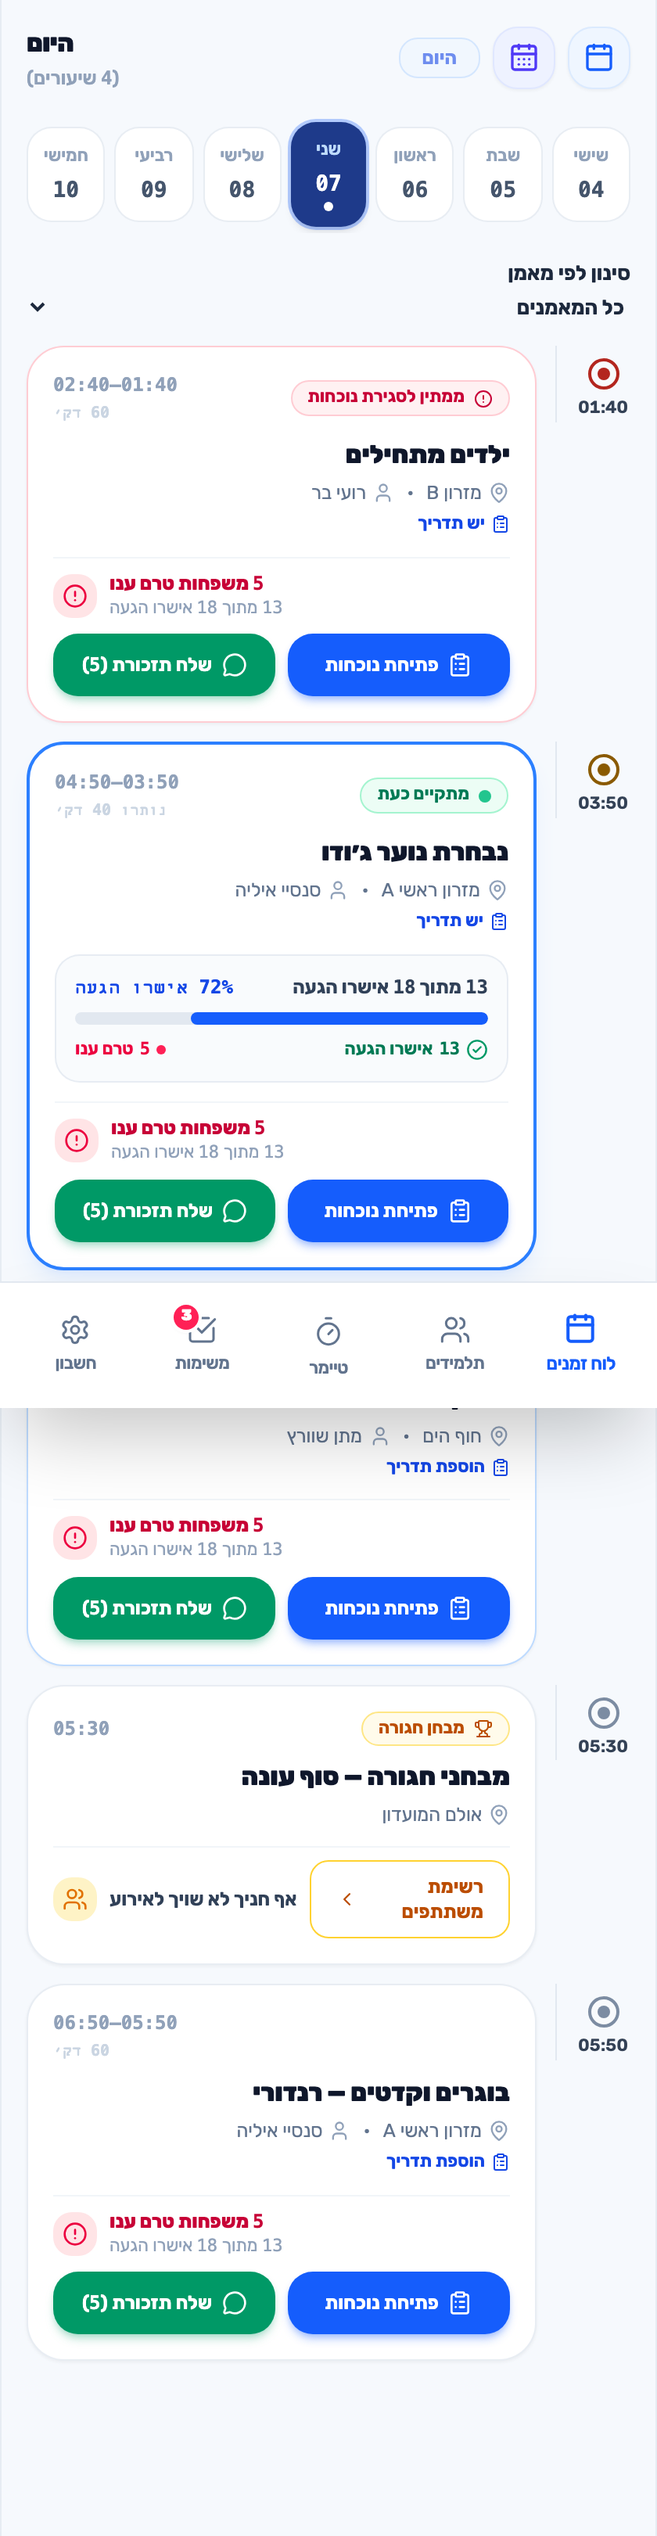
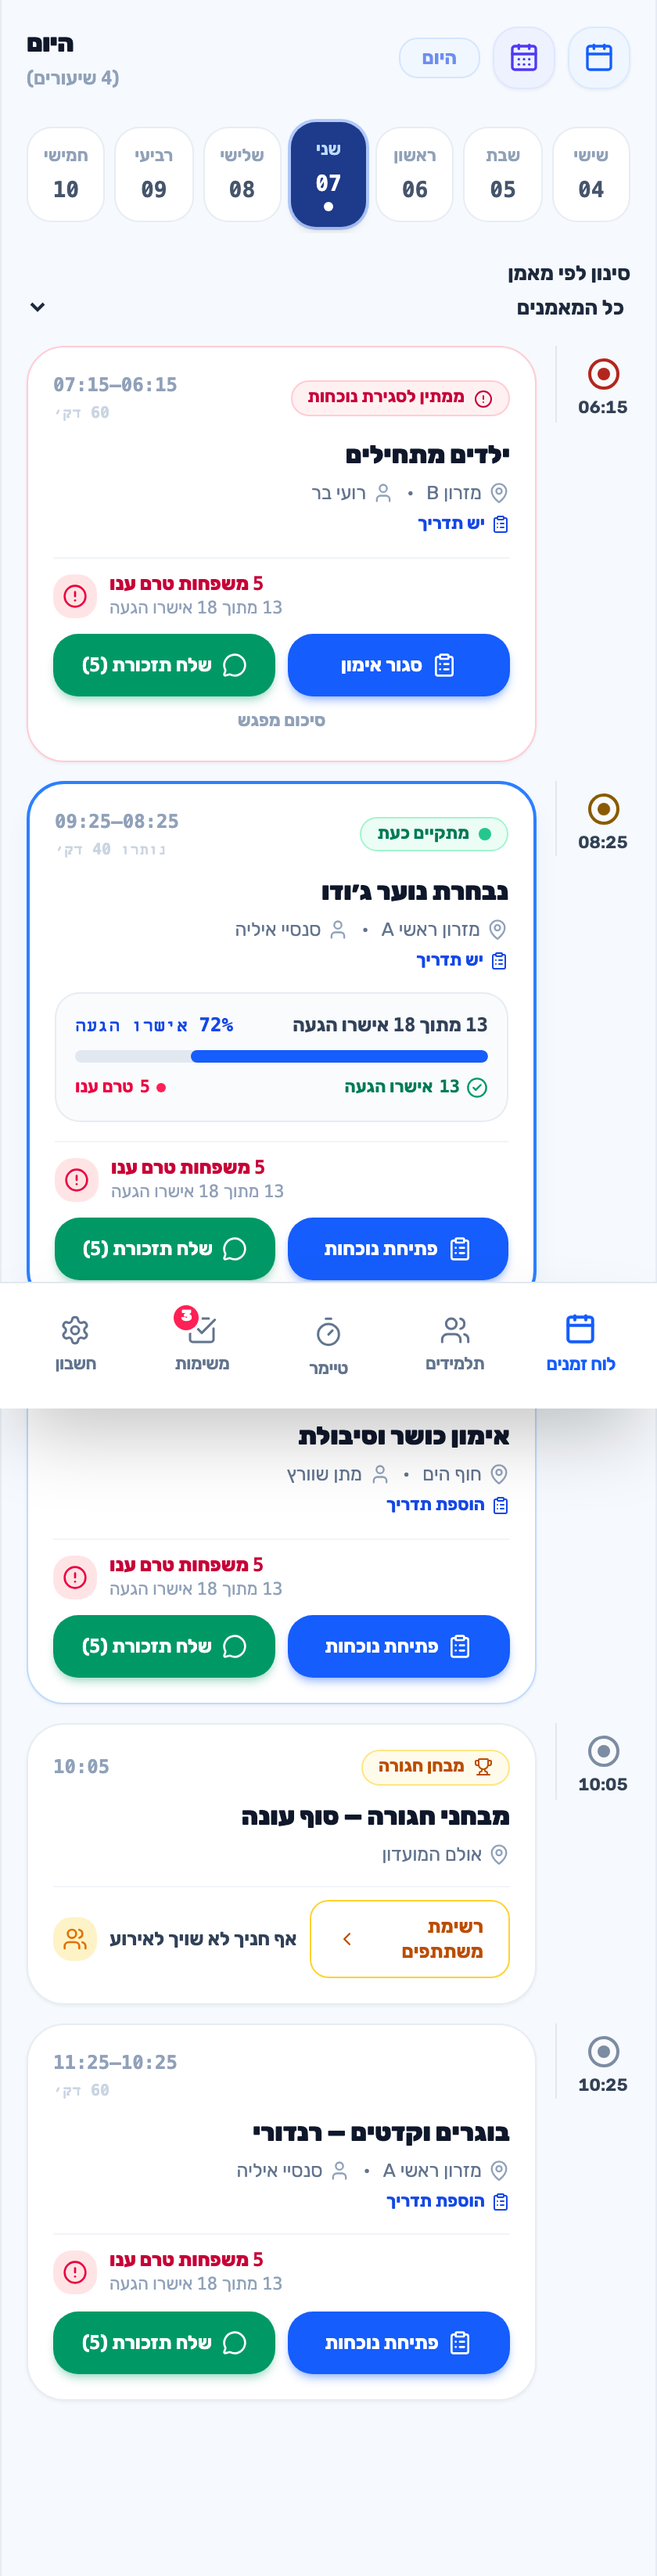
fix(staff): a session that has ended offers to close, and points at its write-up
Owner review. The card already got the state right — rose border, rose dot, and a
chip reading `ממתין לסגירת נוכחות`, "waiting for attendance to be closed" — and
then offered a button reading `פתיחת נוכחות`, "**open** attendance". The card
announced a state and its action ignored it.

Two small changes, and deliberately nothing more.

**The wording follows the state.** On `pendingClose` only, the primary action
reads `סגור אימון` — close the session — as the prototype's own first card does.
It is the same link to the same place, because closing a session *is* taking its
register. Every other state keeps `today.openRoster` unchanged, and `open-roster`
keeps its testid.

**The write-up is reachable from the card.** The session summary — counts, and
the note where a coach records what happened — lived only behind a small footer
button below the whole roster, with nothing pointing at it. It now has a discreet
link on any session that has ended. Not a third filled button: that card already
carries a chip, a title, a location, a coach, counts and a two-up grid.

Not role-gated, unlike the briefing. `POST /sessions/{id}/notes` is `AnyStaff`,
and the person who taught the class is the one who should write what happened in
it — often the assistant.

**What this deliberately is not.** There is still no close *act*: no endpoint, no
column, no confirmation. Closed stays derived — ended, with attendance taken.
[…]

diff --git a/web/apps/staff/src/features/schedule/TodayScreen.test.tsx b/web/apps/staff/src/features/schedule/TodayScreen.test.tsx
@@ -821,3 +821,94 @@ describe('TodayScreen — the session happening now gets its own card (C3)', () 
     expect(screen.queryByTestId('session-roster-unavailable')).toBeNull()
   })
 })
+
+// Owner fixes (2026-09-07): the pendingClose card's primary action names the act it
+// performs (closing a session by taking its register) rather than reading "open
+// attendance" on a session already over, and the card gains a discreet link to the
+// session's write-up once the class has actually happened. Neither fix touches the
+// schedule client, adds a status column, or invents a "close" write — closing stays
+// derived, exactly as it was before this pass; see `SessionCard`'s own note above
+// `open-roster` in `TodayScreen.tsx`.
+describe('TodayScreen — the pendingClose card names the act it performs (owner fix)', () => {
+  const ENDED_UNCLOSED: SessionRow = {
+    ...base,
+    id: 's-ended-unclosed',
+    starts_at: '2026-11-03T09:00:00Z',
+    ends_at: '2026-11-03T10:00:00Z',
+    attendance_taken: false,
+    status: 'scheduled',
+  }
+
+  it('reads "close the session" and still links to the same register', async () => {
+    render(screenFor({ client: stub([ENDED_UNCLOSED]) }))
+    const action = await screen.findByTestId('open-roster')
+    expect(action).toHaveTextContent(t('he', 'schedule.today.closeSession'))
+    expect(action).toHaveAccessibleName(t('he', 'schedule.today.closeSession'))
+    expect(action).toHaveAttribute('href', '#/attendance/s-ended-unclosed')
+  })
+
+  it('leaves every other state reading "open attendance"', async () => {
+    // `TODAY_SESSION` starts after `screenFor`'s default `today` (12:00Z) — nextUp, not
+    // pendingClose.
+    render(screenFor({ client: stub([TODAY_SESSION]) }))
+    const action = await screen.findByTestId('open-roster')
+    expect(action).toHaveTextContent(t('he', 'schedule.today.openRoster'))
+    expect(screen.queryByText(t('he', 'schedule.today.closeSession'))).toBeNull()
+  })
+})
+
+describe('TodayScreen — the write-up is reachable from the card (owner fix)', () => {
+  const ENDED_CLOSED: SessionRow = {
+    ...base,
+    id: 's-ended-closed',
+    starts_at: '2026-11-03T09:00:00Z',
+    ends_at: '2026-11-03T10:00:00Z',
+    attendance_taken: true,
+    status: 'scheduled',
+  }
+
+  it('appears on an ended, already-closed session and points at its summary', async () => {
+    render(screenFor({ client: stub([ENDED_CLOSED]) }))
+    const link = await screen.findByTestId('session-summary-link')
+    expect(link).toHaveAttribute('href', '#/attendance/s-ended-closed/summary')
+  })
+
+  it('appears on an ended, still-open (pendingClose) session too', async () => {
+    render(
+      screenFor({
+        client: stub([{ ...ENDED_CLOSED, id: 's-ended-open', attendance_taken: false }]),
+      }),
+    )
+    const link = await screen.findByTestId('session-summary-link')
+    expect(link).toHaveAttribute('href', '#/attendance/s-ended-open/summary')
+  })
+
+  it('does not appear on an upcoming session', async () => {
+    render(screenFor({ client: stub([TODAY_SESSION]) }))
+    await screen.findByTestId('open-roster')
+    expect(screen.queryByTestId('session-summary-link')).toBeNull()
+  })
+
+  it('does not appear on a session happening right now', async () => {
+    const ACTIVE_NOW: SessionRow = {
+      ...base,
+      id: 's-active-now',
+      starts_at: '2026-11-03T11:00:00Z',
+      ends_at: '2026-11-03T13:00:00Z',
+      status: 'scheduled',
+    }
+    render(screenFor({ client: stub([ACTIVE_NOW]) }))
+    await screen.findByTestId('open-roster')
+    expect(screen.queryByTestId('session-summary-link')).toBeNull()
+  })
+
+  it('does not appear on a cancelled session, even one long past its slot — it never happened', async () => {
+    render(
+      screenFor({
+        client: stub([{ ...ENDED_CLOSED, status: 'cancelled', cancel_reason: 'system:closure' }]),
+      }),
+    )
+    await screen.findByTestId('session-row')
+    expect(screen.queryByTestId('session-summary-link')).toBeNull()
+  })
+})

diff --git a/web/apps/staff/src/features/schedule/TodayScreen.tsx b/web/apps/staff/src/features/schedule/TodayScreen.tsx
@@ -1092,6 +1092,15 @@ export function SessionCard({
     Math.round((Date.parse(session.ends_at) - Date.parse(today)) / 60_000),
   )
 
+  // Owner fixes (2026-09-07): the card's primary action names the act it actually performs
+  // rather than always reading "open attendance" — `timelineStates`' own `ended` category
+  // (see its header) is recomputed here off the same two instants, because `pendingClose`
+  // is not the only ended state (`later` also covers "ended and closed") and a cancelled
+  // session never happened at all, however long ago its slot was. Neither fix touches the
+  // schedule client, adds a status, or invents a "close" write — see this card's own note
+  // above `open-roster` for why closing is, and stays, derived rather than a button's doing.
+  const sessionHasEnded = session.status !== 'cancelled' && Date.parse(today) >= Date.parse(session.ends_at)
+
   // §4.9's chase action, decision 18: the same mechanism as everywhere else in the app —
   // copy the numbers, open WhatsApp with the message ready. No integration. Computed once,
   // C4, so both the ordinary two-up grid and the cancelled-session row (which has no
@@ -1314,9 +1323,17 @@ export function SessionCard({
           // attendance takes the whole row alone when there is not — a button offering to
           // chase nobody is noise.
           <div className={counts.notAnswered > 0 ? 'grid grid-cols-2 gap-2' : 'grid grid-cols-1'}>
+            {/* Owner fix (2026-09-07): `pendingClose` is a session already over with its
+                register still owed — the prototype's own card names the act that closes it
+                (`סגור אימון`), not "open attendance" again. Same link, same destination
+                (closing a session IS taking its register, per this card's own note above),
+                only the label and the accessible name it carries change; every other state
+                keeps `schedule.today.openRoster` exactly as it read before this pass. */}
             <a href={`#/attendance/${session.id}`} data-testid="open-roster" className={ATTENDANCE_BUTTON_CLASS}>
               <ClipboardList className="w-4 h-4" aria-hidden="true" />
-              <span>{t(locale, 'schedule.today.openRoster')}</span>
+              <span>
+                {t(locale, state === 'pendingClose' ? 'schedule.today.closeSession' : 'schedule.today.openRoster')}
+              </span>
             </a>
             {chaseButton}
           </div>
@@ -1338,6 +1355,26 @@ export function SessionCard({
             {chaseButton}
           </div>
         )}
+
+        {/* Owner fix (2026-09-07): the write-up (`#/attendance/<id>/summary`) used to be
+            reachable only from a footer button below the whole roster — nothing on the card
+            itself pointed at it. A discreet tertiary link, never a third filled button
+            beside the two-up grid above, and only once the class has actually happened:
+            `sessionHasEnded` is false for `nextUp`/`activeNow` and for any cancelled
+            session (a class that never happened has no write-up to reach), true for
+            `pendingClose` and for the "ended and closed" sessions `timelineStates` files
+            under the neutral `later` bucket. Any staff may write one (`POST
+            /sessions/{id}/notes` is `AnyStaff`) — this is deliberately not `canWritePlan`
+            gated, unlike the briefing marker above. */}
+        {sessionHasEnded ? (
+          <a
+            href={`#/attendance/${session.id}/summary`}
+            data-testid="session-summary-link"
+            className="self-center text-[11px] font-bold text-slate-400 transition-colors hover:text-slate-600"
+          >
+            {t(locale, 'attendance.summary.title')}
+          </a>
+        ) : null}
       </div>
     </article>
   )

diff --git a/web/packages/i18n/he/schedule.ts b/web/packages/i18n/he/schedule.ts
@@ -22,6 +22,12 @@ export const schedule: Bundle = {
   'today.sessionCount.one': 'שיעור אחד',
   'today.backToToday': 'חזרה להיום',
   'today.openRoster': 'פתיחת נוכחות',
+  // Owner fix (2026-09-07) — the same link as `today.openRoster`, to the same
+  // `#/attendance/<id>`, only on a `pendingClose` card: closing a session IS taking its
+  // register, so the action's wording should say that rather than "open attendance" on a
+  // session that has already ended. Never repurposes `today.openRoster`, which every other
+  // state still uses as written.
+  'today.closeSession': 'סגור אימון',
   'today.empty': 'אין שיעורים היום',
   'today.emptyHint': 'ימי פעילות נקבעים בלו״ז השבועי של הקבוצה',
   // Register §4.2 — a date outside every declared training year used to render exactly

diff --git a/web/packages/i18n/ru/schedule.ts b/web/packages/i18n/ru/schedule.ts
@@ -10,6 +10,7 @@ export const schedule: Bundle = {
   'today.sessionCount.one': '1 занятие',
   'today.backToToday': 'Вернуться к сегодня',
   'today.openRoster': 'Открыть перекличку',
+  'today.closeSession': 'Закрыть занятие',
   'today.empty': 'Сегодня занятий нет',
   'today.emptyHint': 'Дни занятий задаются в недельном расписании группы',
   'today.noTrainingYear': 'Ни один учебный год не охватывает эту дату',

diff --git a/web/packages/i18n/en/schedule.ts b/web/packages/i18n/en/schedule.ts
@@ -7,6 +7,7 @@ export const schedule: Bundle = {
   'today.sessionCount.one': '1 session',
   'today.backToToday': 'Back to today',
   'today.openRoster': 'Open the register',
+  'today.closeSession': 'Close the session',
   'today.empty': 'No classes today',
   'today.emptyHint': 'Activity days are set in the group’s weekly schedule',
   'today.noTrainingYear': 'No training year covers this date',
